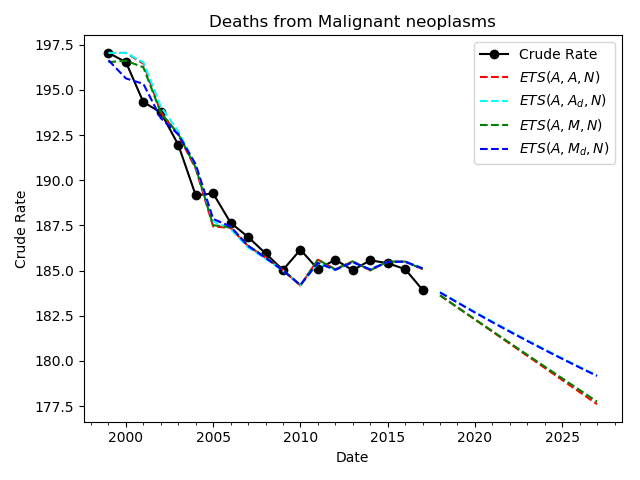
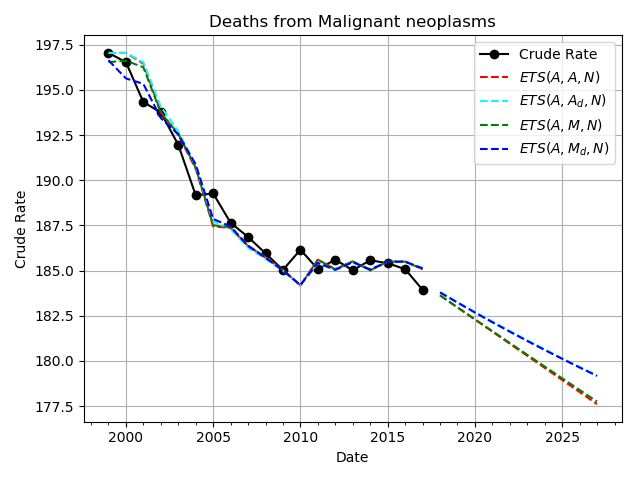
Add grid to ETS plots

diff --git a/vbp/ucod/united_states.py b/vbp/ucod/united_states.py
@@ -257,7 +257,7 @@ class UnderlyingCausesOfDeathUnitedStates(vbp.DataSource):
     title += "_d" if damped else ""
     title += ",N)"
     forecast = fit.forecast(predict).rename("${}$".format(title))
-    forecast.plot(color=color, legend=True, style="--")
+    forecast.plot(color=color, legend=True, grid=True, style="--")
     
     # Not necessarily linear, so take the slope of a line through the last two points
     lasttwopoints = forecast.iloc[-2::,]

diff --git a/value_based_prioritization.tex b/value_based_prioritization.tex
@@ -682,7 +682,7 @@ Calculate the product of each action's $B(t_F)$ and its scale function values to
 
 \section{Discussion}
 
-The example modeling methods are crude and the field is ripe for more detailed approaches.
+The example modeling methods are crude and are ripe for more detailed approaches.
 
 %%%%%%%%%%%%%%
 % References %
